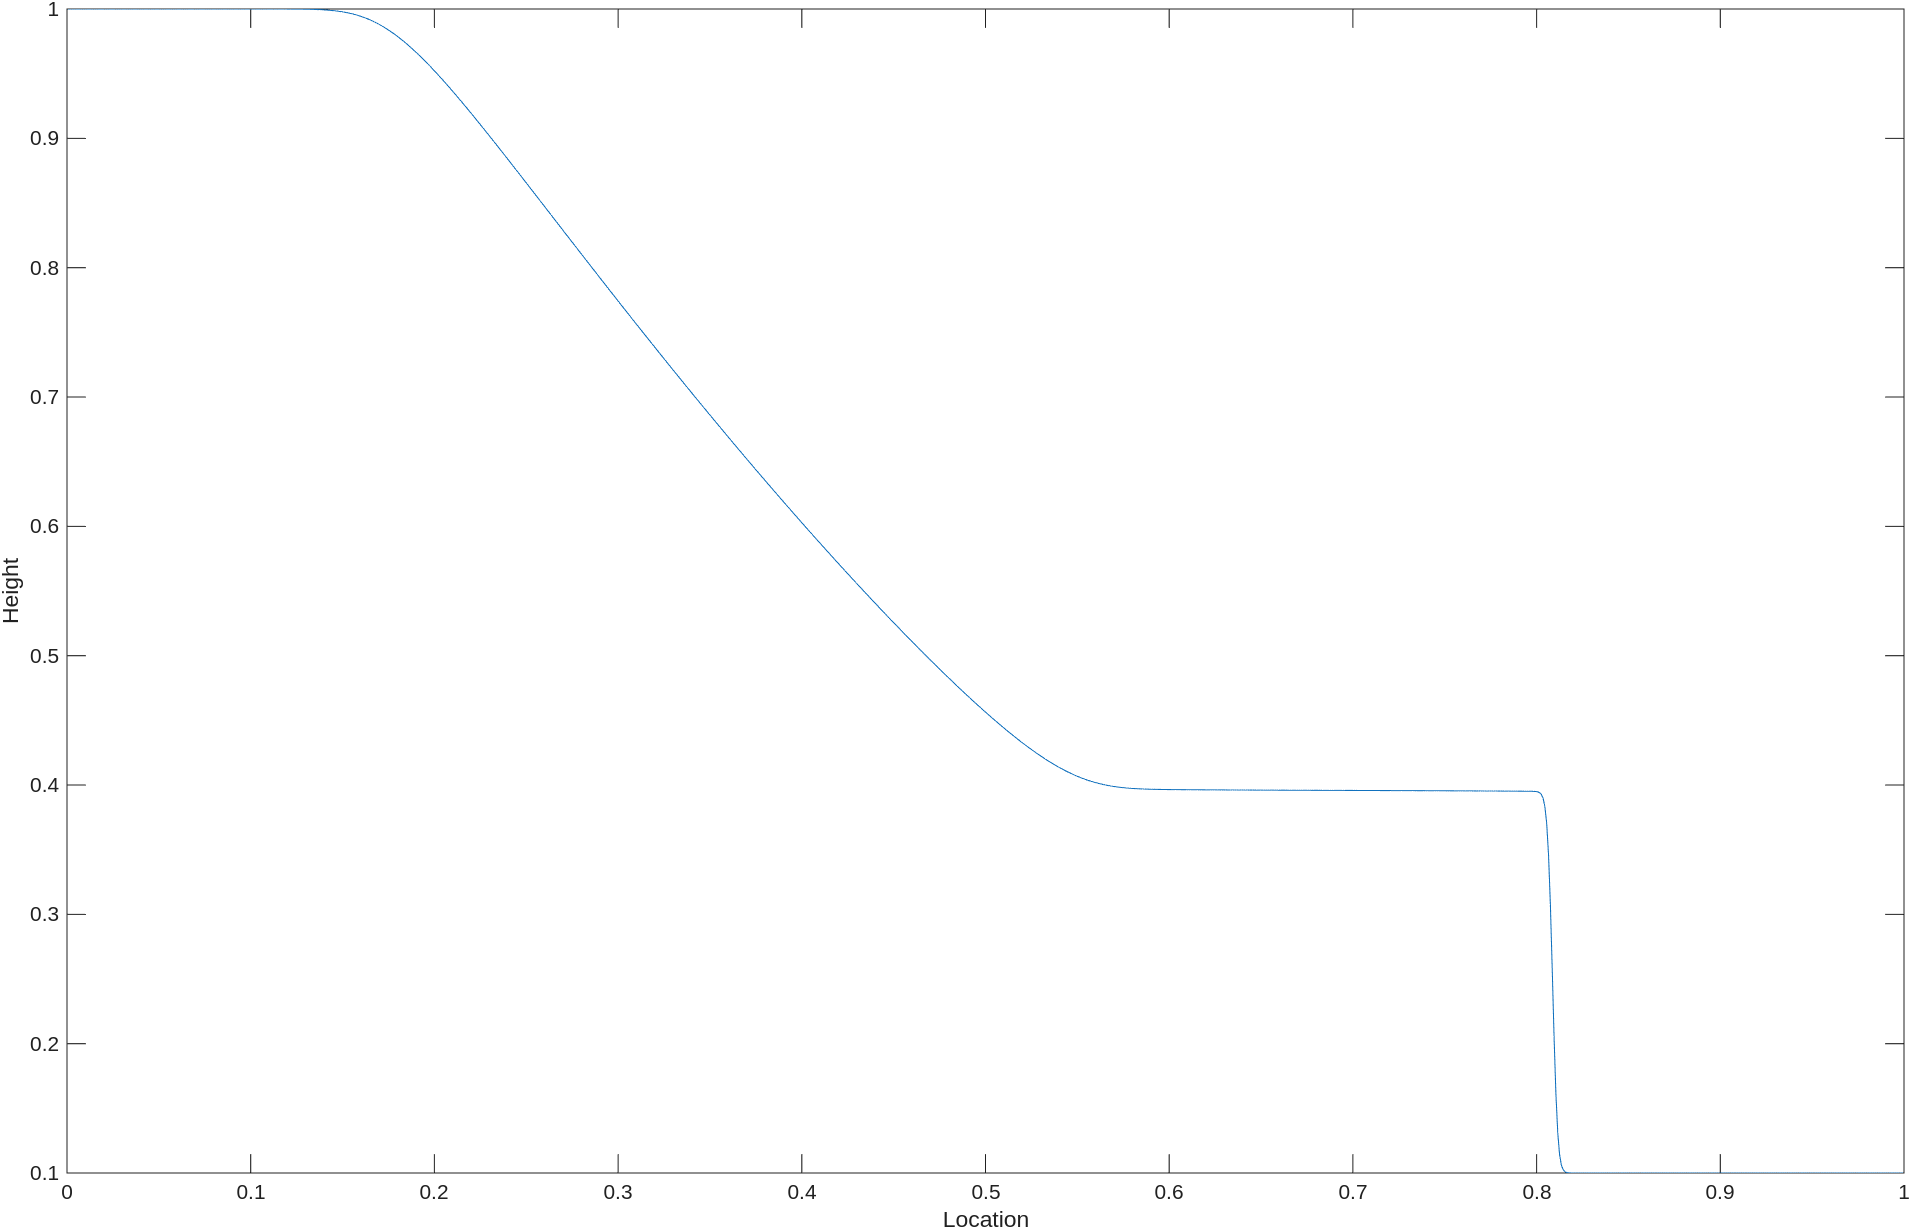
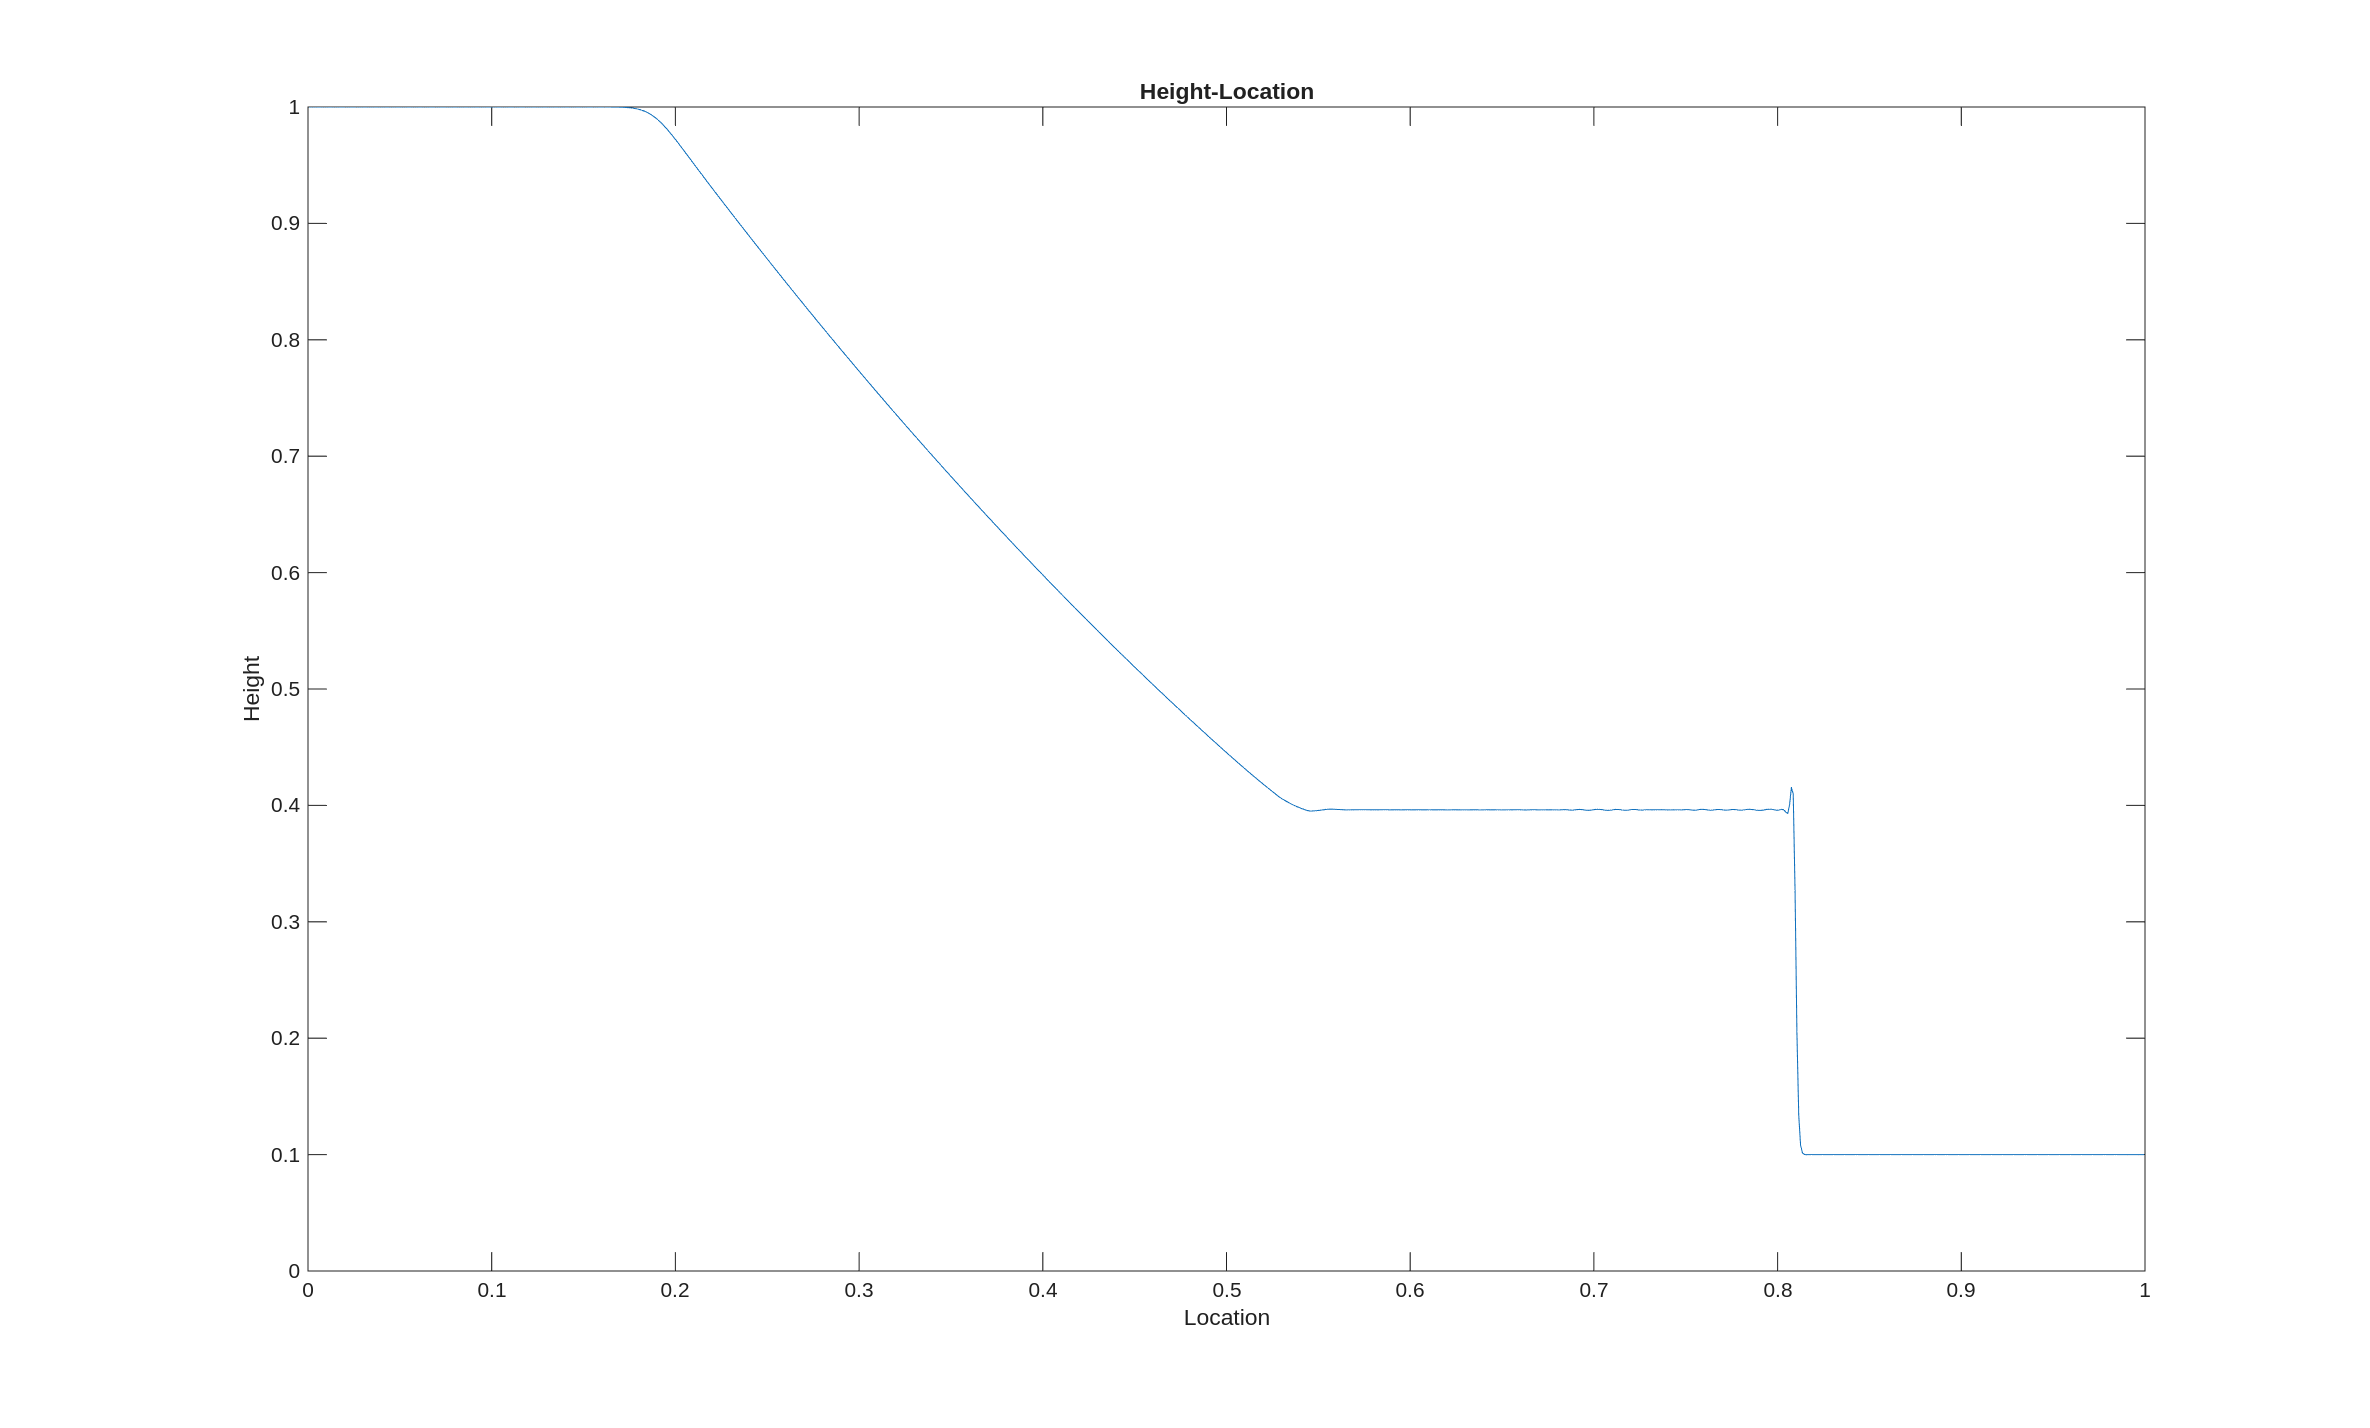
Update the code to the second order

diff --git a/2DShallow-water-Dam-Break/main.c b/2DShallow-water-Dam-Break/main.c
@@ -12,23 +12,27 @@
 #define g 9.81
 #define CFL 0.25
 
-void Allocate_memory(float **u,float **mass_F,float **momentum_F,float **mass,float **momentum,float **h){
+void Allocate_memory(float **u,float **mass_F,float **momentum_F,float **mass,float **momentum,float **h,float **mass_slope,float **momentum_slope){
 	*u = (float*)malloc(N*sizeof(float));
 	*mass_F = (float*)malloc(NIF*sizeof(float));
 	*momentum_F = (float*)malloc(NIF*sizeof(float));
 	*mass = (float*)malloc(N*sizeof(float));
 	*momentum = (float*)malloc(N*sizeof(float));
 	*h = (float*)malloc(N*sizeof(float));
+	*mass_slope = (float*)malloc(N*sizeof(float));
+	*momentum_slope = (float*)malloc(N*sizeof(float));
 }
-void Free_memory(float *u,float *mass_F,float *momentum_F,float *mass,float *momentum,float *h){
+void Free_memory(float *u,float *mass_F,float *momentum_F,float *mass,float *momentum,float *h,float *mass_slope,float *momentum_slope){
 	free(u);
 	free(mass_F);
 	free(momentum_F);
 	free(mass);
 	free(momentum);
 	free(h);
+	free(mass_slope);
+	free(momentum_slope);
 }
-void Calculation(float *u,float *mass_F,float *momentum_F,float *mass,float *momentum,float *h){
+void Calculation(float *u,float *mass_F,float *momentum_F,float *mass,float *momentum,float *h,float *mass_slope,float *momentum_slope){
 	for (int i = 0;i < N;i++){
 		if(i < N/2){
 			h[i] = 1;
@@ -39,6 +43,8 @@ void Calculation(float *u,float *mass_F,float *momentum_F,float *mass,float *mom
 		u[i] = 0;
 		mass[i] = h[i];
 		momentum[i] = h[i]*u[i];
+		mass_slope[i] = 0;
+		momentum_slope[i] = 0;
 	}
 	float time = 0;
         
@@ -65,14 +71,45 @@ void Calculation(float *u,float *mass_F,float *momentum_F,float *mass,float *mom
             		break;
   		} else {
 	            	printf("Ran out of timesteps before reaching target time.\n");
-        	}
+   		}
+		for(int i = 0;i < N;i++){
+			float forward = (mass[i+1] - mass[i])/DX;
+			float backward = (mass[i] - mass[i-1])/DX;
+			if(forward*backward < 0){
+				mass_slope[i] = 0;
+			}else{
+				if(abs(forward)<abs(backward)){
+					mass_slope[i] = forward;
+				}else{
+					mass_slope[i] = backward;
+				}
+			}
+		}
+		for(int i = 0;i < N;i++){
+                        float forward = (momentum[i+1] - momentum[i])/DX;
+                        float backward = (momentum[i] - momentum[i-1])/DX;
+                        if(forward*backward < 0){
+                                momentum_slope[i] = 0;
+                        }else{
+                                if(abs(forward)<abs(backward)){
+                                        momentum_slope[i] = forward;
+                                }else{
+                                        momentum_slope[i] = backward;
+                                }
+			}
+                }
+
 		for (int i = 1;i < NIF-1;i++){
 			float mass_left = h[i-1]*u[i-1];
 			float mass_right = h[i]*u[i];
 			float momentum_left = h[i-1]*u[i-1]*u[i-1] + 0.5*g*h[i-1]*h[i-1];
 			float momentum_right = h[i]*u[i]*u[i] + 0.5*g*h[i]*h[i];
-                        mass_F[i] = 0.5*(mass_left + mass_right) - 0.5*Smax*(mass[i] - mass[i-1]);
-			momentum_F[i] = 0.5*(momentum_left + momentum_right) - 0.5*Smax*(momentum[i] - momentum[i-1]);
+			float mass_l = mass[i-1] + 0.5*DX*mass_slope[i-1];
+			float mass_r = mass[i] - 0.5*DX*mass_slope[i];
+			float momentum_l = momentum[i-1] + 0.5*DX*momentum_slope[i-1];
+			float momentum_r = momentum[i] - 0.5*DX*momentum_slope[i];
+                        mass_F[i] = 0.5*(mass_left + mass_right) - 0.5*Smax*(mass_r - mass_l);
+			momentum_F[i] = 0.5*(momentum_left + momentum_right) - 0.5*Smax*(momentum_r - momentum_l);
 		}
 		mass_F[0] = 0;
                 mass_F[NIF-1] = 0;
@@ -99,14 +136,16 @@ int main() {
         float *mass;
         float *momentum;
         float *h;
-        Allocate_memory(&u,&mass_F,&momentum_F,&mass,&momentum,&h);
-	Calculation(u,mass_F,momentum_F,mass,momentum,h);
+	float *mass_slope;
+	float *momentum_slope;
+        Allocate_memory(&u,&mass_F,&momentum_F,&mass,&momentum,&h,&mass_slope,&momentum_slope);
+	Calculation(u,mass_F,momentum_F,mass,momentum,h,mass_slope,momentum_slope);
 	FILE *fp = fopen("results.dat", "w");
     	for (int j = 0; j < N; j++) {
 		float X = (j+0.5)*DX;
         	fprintf(fp, "%g\t%.15e\t%g\n", X, mass[j],u[j]);
     	}
     	fclose(fp);
-        Free_memory(u,mass_F,momentum_F,mass,momentum,h);
+        Free_memory(u,mass_F,momentum_F,mass,momentum,h,mass_slope,momentum_slope);
 }
 
